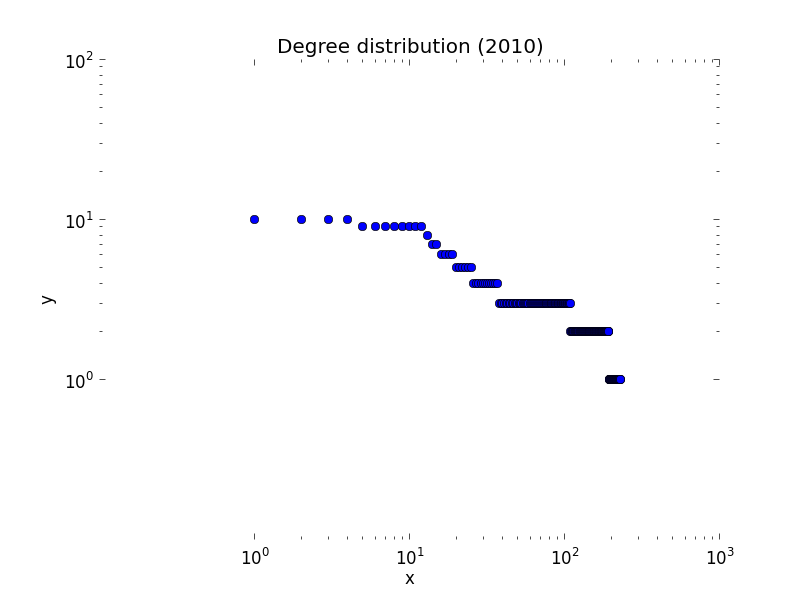
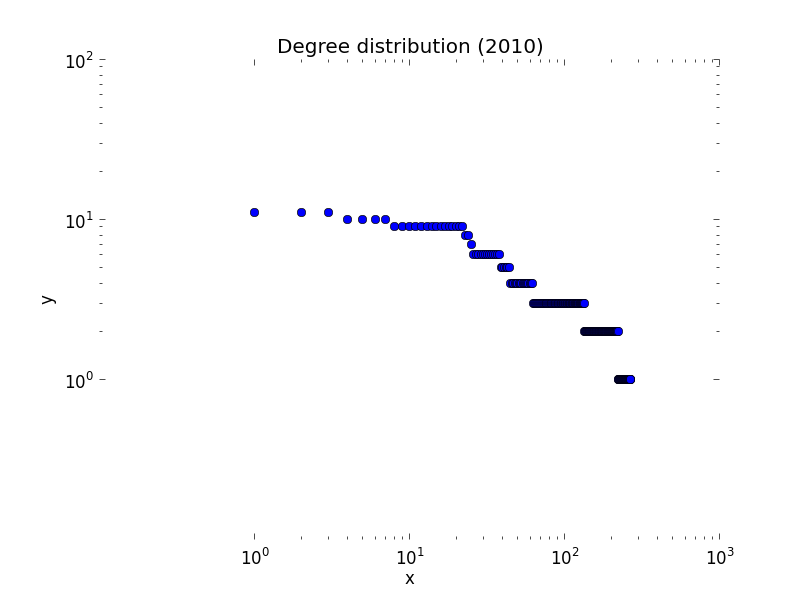
Refactor main program

diff --git a/adrien/main.py b/adrien/main.py
@@ -7,125 +7,102 @@ import graph_mining
 import text_mining
 import plotting
 import drawing
+import miscellaneous
 
+update_data = False
+text_analytics = False
+graph_analytics = True
 
-# Load articles from the original .txt file and serialize corpora:
+if update_data:
+    # Load data from the text file and serialize various corpora w.r.t language and year
+    all_articles = corpus.load('input/RNTI_articles_export_fixed1347_ids.txt', 2004, 2016)
+    corpus.serialize(all_articles, 'output/corpora/all_articles.pickle')
+    french_articles = corpus.load('input/RNTI_articles_export_fixed1347_ids.txt', 2004, 2016, 'fr')
+    corpus.serialize(french_articles, 'output/corpora/all_french_articles.pickle')
+    english_articles = corpus.load('input/RNTI_articles_export_fixed1347_ids.txt', 2004, 2016, 'en')
+    corpus.serialize(english_articles, 'output/corpora/all_english_articles.pickle')
+    for i in range(2004, 2016):
+        french_article_corpus = corpus.load('input/RNTI_articles_export_fixed1347_ids.txt', i, i+1, 'fr')
+        corpus.serialize(french_article_corpus, 'output/corpora/french_articles_'+str(i)+'.pickle')
+        english_article_corpus = corpus.load('input/RNTI_articles_export_fixed1347_ids.txt', i, i+1, 'en')
+        corpus.serialize(english_article_corpus, 'output/corpora/english_articles_'+str(i)+'.pickle')
+        french_english_article_corpus = corpus.load('input/RNTI_articles_export_fixed1347_ids.txt', i, i+1)
+        corpus.serialize(french_english_article_corpus, 'output/corpora/all_articles_'+str(i)+'.pickle')
 
-"""
-for i in range(2004, 2015):
-    article_corpus = corpus.load('input/RNTI_articles_export_fixed1347_ids.txt', i, i+1, 'fr')
-    corpus.serialize(article_corpus, 'output/corpora/french_articles_'+str(i)+'.pickle')
-    print i
-    corpus.pretty_print(article_corpus)
-    print ''
-french_article_corpus = corpus.load('input/RNTI_articles_export_fixed1347_ids.txt', 2004, 2015, 'fr')
-corpus.serialize(french_article_corpus, 'output/corpora/french_articles.pickle')
-english_article_corpus = corpus.load('input/RNTI_articles_export_fixed1347_ids.txt', 2004, 2015, 'en')
-corpus.serialize(english_article_corpus, 'output/corpora/english_articles.pickle')
-complete_article_corpus = corpus.load('input/RNTI_articles_export_fixed1347_ids.txt', 2004, 2015)
-corpus.serialize(complete_article_corpus, 'output/corpora/all_articles.pickle')
+# Deserialize corpora
+all_articles = corpus.deserialize('output/corpora/all_articles.pickle')
+french_articles = corpus.deserialize('output/corpora/all_french_articles.pickle')
+english_articles = corpus.deserialize('output/corpora/all_english_articles.pickle')
+article_dict = {}
+for i in range(2004, 2016):
+    article_dict[str(i)] = corpus.deserialize('output/corpora/all_articles_'+str(i)+'.pickle')
+french_article_dict = {}
+for i in range(2004, 2016):
+    french_article_dict[str(i)] = corpus.deserialize('output/corpora/french_articles_'+str(i)+'.pickle')
+english_article_dict = {}
+for i in range(2004, 2016):
+    english_article_dict[str(i)] = corpus.deserialize('output/corpora/english_articles_'+str(i)+'.pickle')
 
-# Deserialize corpora saved on disk
-french_article_corpus = corpus.deserialize('output/corpora/french_articles.pickle')
-english_article_corpus = corpus.deserialize('output/corpora/english_articles.pickle')
-complete_article_corpus = corpus.deserialize('output/corpora/all_articles.pickle')
+if text_analytics:
+    # Extract latent topics using LDA and LSI
+    num_topics = 8
+    for i in range(2004, 2016):
+        lda_topics = text_mining.train_lda(corpus.title_list(french_article_dict.get(str(i))), num_topics)
+        print 'LDA'
+        text_mining.print_topics(lda_topics)
+        lsi_topics = text_mining.perform_lsi(corpus.title_list(french_article_dict.get(str(i))), 6)
+        print 'LSI'
+        text_mining.print_topics(lsi_topics)
 
-# Extract latent topics from the 2014 articles
-print '## Text Mining'
-print ' - French article corpus'
-french_articles_2014 = corpus.deserialize('output/corpora/french_articles_2014.pickle')
-lda_topics = text_mining.train_lda(corpus.title_list(french_articles_2014), 6)
-print 'LDA'
-text_mining.print_topics(lda_topics)
-lsi_topics = text_mining.perform_lsi(corpus.title_list(french_articles_2014), 6)
-print 'LSI'
-text_mining.print_topics(lsi_topics)
-
-# Analyze the evolution of collaborations from 2004 until 2014
-print '## Graph Mining'
-print ' - Collaborations by year'
-year = []
-authors = []
-density = []
-average_clustering = []
-graphs = []
-for i in range(2004, 2015):
-    print i
-    article_corpus = corpus.deserialize('output/corpora/french_articles_'+str(i)+'.pickle')
-    collaboration_graph = corpus.collaboration_graph(article_corpus, str(i))
-    authors.append(collaboration_graph.number_of_nodes())
-    graph_mining.print_basic_properties(collaboration_graph)
-    graphs.append(collaboration_graph)
-    graph_mining.draw(collaboration_graph)
-    degree_analysis = graph_mining.degree_analysis(collaboration_graph)
-    print 'max degree:', max(degree_analysis[0])
-    density.append(degree_analysis[1])
-    average_clustering.append(graph_mining.average_clustering_coefficient(collaboration_graph))
-    page_rank = graph_mining.page_rank(collaboration_graph)
-    print page_rank[:10]
-    k_core = graph_mining.k_core_decomposition(collaboration_graph)
-    print k_core[:10]
-    year.append(i)
-    print ''
-plotting.scatter_plot(data_x=year,
-                      data_y=authors,
-                      plot_name='Number of distinct authors vs. time',
-                      file_path='output/plots/number_authors_vs_time.png')
-plotting.scatter_plot(data_x=year,
-                      data_y=average_clustering,
-                      plot_name='Clustering coefficient vs. time',
-                      file_path='output/plots/clustering_coefficient_vs_time.png',
-                      linear_regression=True)
-plotting.scatter_plot(data_x=year,
-                      data_y=density,
-                      plot_name='Density vs. time',
-                      file_path='output/plots/density_vs_time.png',
-                      linear_regression=True)
-print ' - Accumulating collaborations through years'
-
-cumulative_graph = graphs[0]
-authors = []
-density = []
-average_clustering = []
-connected_components = []
-for i in range(0, len(graphs)):
-    cumulative_graph = graph_mining.merge(cumulative_graph, graphs[i])
-    authors.append(cumulative_graph.number_of_nodes())
-    connected_components.append(len(graph_mining.connected_components(cumulative_graph)))
-    graph_mining.print_basic_properties(cumulative_graph)
-    degree_analysis = graph_mining.degree_analysis(cumulative_graph)
-    print 'max degree:', max(degree_analysis[0])
-    density.append(degree_analysis[1])
-    average_clustering.append(graph_mining.average_clustering_coefficient(cumulative_graph))
-    page_rank = graph_mining.page_rank(cumulative_graph)
-    print page_rank[:10]
-    k_core = graph_mining.k_core_decomposition(cumulative_graph)
-    print k_core[:10]
-    # communities = graph_mining.louvain_modularity(collaboration_graph)
-    # drawing.draw_graph_with_communities(collaboration_graph, communities)
-    print ''
-plotting.scatter_plot(data_x=year,
-                      data_y=authors,
-                      plot_name='Number of connected components vs. time (cumulative graph)',
-                      file_path='output/plots/cumulative_connected_components_vs_time.png')
-plotting.scatter_plot(data_x=year,
-                      data_y=authors,
-                      plot_name='Number of distinct authors vs. time (cumulative graph)',
-                      file_path='output/plots/cumulative_number_authors_vs_time.png',
-                      linear_regression=True)
-plotting.scatter_plot(data_x=year,
-                      data_y=average_clustering,
-                      plot_name='Clustering coefficient vs. time (cumulative graph)',
-                      file_path='output/plots/cumulative_clustering_coefficient_vs_time.png')
-plotting.scatter_plot(data_x=year,
-                      data_y=density,
-                      plot_name='Density vs. time (cumulative graph)',
-                      file_path='output/plots/cumulative_density_vs_time.png')
-
-french_article_corpus = corpus.deserialize('output/corpora/english_articles.pickle')
-corpus.pretty_print(french_article_corpus)
-"""
-
-french_2012_article_corpus = corpus.deserialize('output/corpora/french_articles_2012.pickle')
-collaboration_graph = corpus.collaboration_graph(french_2012_article_corpus, 2012)
-graph_mining.patterns(collaboration_graph)
+if graph_analytics:
+    generate_plots = True
+    if generate_plots:
+        mode = ''
+        graphs = []
+        while mode != 'stop':
+            year = []
+            authors = []
+            density = []
+            average_clustering = []
+            connected_components = []
+            for i in range(2004, 2016):
+                year.append(i)
+                if mode == '(cumulative)':
+                    if i == 2004:
+                        graph = graphs[0]
+                    else:
+                        graph = graph_mining.merge(graph, graphs[i-2004])
+                else:
+                    graph = corpus.collaboration_graph(article_dict.get(str(i)))
+                    graphs.append(graph)
+                graph.name = str(i)+mode
+                graph_mining.print_basic_properties(graph)
+                authors.append(graph.number_of_nodes())
+                density.append(graph_mining.degree_analysis(graph, plot=True))
+                average_clustering.append(graph_mining.average_clustering_coefficient(graph))
+                connected_components.append(len(graph_mining.connected_components(graph)))
+                page_rank = graph_mining.page_rank(graph)
+                print page_rank[:10]
+                k_core = graph_mining.k_core_decomposition(graph)
+                print k_core[:10]
+                print ''
+            plotting.scatter_plot(data_x=year,
+                                  data_y=authors,
+                                  plot_name='Number of distinct authors vs. time '+mode,
+                                  file_path='output/plots/number_authors_vs_time.png'+mode+'.png')
+            plotting.scatter_plot(data_x=year,
+                                  data_y=average_clustering,
+                                  plot_name='Clustering coefficient vs. time '+mode,
+                                  file_path='output/plots/clustering_coefficient_vs_time'+mode+'.png')
+            plotting.scatter_plot(data_x=year,
+                                  data_y=density,
+                                  plot_name='Density vs. time '+mode,
+                                  file_path='output/plots/density_vs_time.png'+mode+'.png')
+            plotting.scatter_plot(data_x=year,
+                                  data_y=connected_components,
+                                  plot_name='Number of connected components vs. time '+mode,
+                                  file_path='output/plots/connected_components_vs_time.png'+mode+'.png')
+            if mode == '':
+                mode = '(cumulative)'
+            else:
+                mode = 'stop'

diff --git a/adrien/graph_mining.py b/adrien/graph_mining.py
@@ -23,20 +23,6 @@ def connected_components(graph):
 
 def patterns(graph):
     graphs = connected_components(graph)
-    all_isomorphic_graphs = []
-    # for i in range(0, len(graphs)):
-    #     isomorphic_graphs = []
-    #     for j in range(0, len(graphs)):
-    #         if nx.number_of_nodes(graphs[i]) == nx.number_of_nodes(graphs[j]) and nx.is_isomorphic(graphs[i], graphs[j]):
-    #             isomorphic_graphs.append(1)
-    #         else:
-    #             isomorphic_graphs.append(0)
-    #     all_isomorphic_graphs.append(isomorphic_graphs)
-    #     print isomorphic_graphs
-    #
-    # for i in all_isomorphic_graphs:
-    #     for j in i:
-    #         drawing.draw_graph(graphs[j])
     pattern_dict = {}
     pattern_count = {}
     for i in range(0, len(graphs)):
@@ -55,20 +41,23 @@ def patterns(graph):
     print pattern_dict
 
 def print_basic_properties(graph):
-    print nx.number_of_nodes(graph), 'distinct authors'
-    print nx.number_of_edges(graph), 'distinct collaborations'
-    print 2*nx.number_of_edges(graph)/nx.number_of_nodes(graph), 'average degree'
-    print len(connected_components(graph)), 'connected components'
+    print 'Name:', graph.name
+    print 'Order:', nx.number_of_nodes(graph)
+    print 'Number of edges:', nx.number_of_edges(graph)
+    print 'Average degree:', 2*nx.number_of_edges(graph)/nx.number_of_nodes(graph)
+    print 'Max degree:', sorted(nx.degree(graph).values(), reverse=True)[0]
+    print 'Number of connected components:', len(connected_components(graph))
 
-def degree_analysis(graph):
+def degree_analysis(graph, plot=False):
     degree_sequence = sorted(nx.degree(graph).values(), reverse=True)
-    plotting.scatter_plot(data_y=degree_sequence,
-                          plot_name='Degree distribution ('+graph.name+')',
-                          file_path='output/plots/degree_distribution('+graph.name+').png',
-                          ymax=100,
-                          xmax=1000,
-                          loglog=True)
-    return [degree_sequence, nx.density(graph)]
+    if plot:
+        plotting.scatter_plot(data_y=degree_sequence,
+                              plot_name='Degree distribution ('+graph.name+')',
+                              file_path='output/plots/degree_distribution('+graph.name+').png',
+                              ymax=100,
+                              xmax=1000,
+                              loglog=True)
+    return nx.density(graph)
 
 def average_clustering_coefficient(graph):
     return nx.average_clustering(graph)

diff --git a/adrien/corpus.py b/adrien/corpus.py
@@ -7,21 +7,21 @@ import networkx as nx
 import codecs
 import pickle
 
-
 def load(file_path, year_a=2004, year_b=2014, enforce_language=None):
     input_file = codecs.open(file_path, 'r', encoding='utf-8')
-    count = 0
     article_list = []
     for line in input_file:
         article = line.split('\t')
-        if len(article) == 10 and 'EGC' in article[2] and int(article[3]) in range(year_a, year_b):
-            authors = article[6].split(',')
-            language = detect(article[4])
+        if len(article) == 10 and 'EGC' in article[1] and int(article[2]) in range(year_a, year_b):
+            authors = article[5].split(',')
+            if len(article[4]) > 10:
+                language = detect(article[4])
+            else:
+                language = detect(article[3])
             if enforce_language is None or language == enforce_language:
-                count += 1
                 for i in range(0, len(authors)):
                     authors[i] = authors[i].strip()
-                article_list.append({'title': article[4], 'year': article[3], 'authors': authors, 'abstract': article[5], 'language': language})
+                article_list.append({'title': article[3], 'year': article[2], 'authors': authors, 'abstract': article[4], 'language': language})
     return article_list
 
 def serialize(corpus, file_path):

diff --git a/adrien/miscellaneous.py b/adrien/miscellaneous.py
@@ -1,0 +1,19 @@
+# coding: utf-8
+__author__ = "Adrien Guille"
+__email__ = "adrien.guille@univ-lyon2.fr"
+
+def to_simple_ranking(weighted_list):
+    ranking = []
+    for weighted_author in weighted_list:
+        ranking.append(weighted_author[0])
+    return ranking
+
+def ranking_evolution(ranking0, ranking1):
+    evolution = []
+    for rank1 in range(0, len(ranking0)):
+        author = ranking1[rank1]
+        ev = "new"
+        if author in ranking0:
+            ev = ranking0.index(author) - rank1
+        evolution.append([author, ev])
+    return evolution
